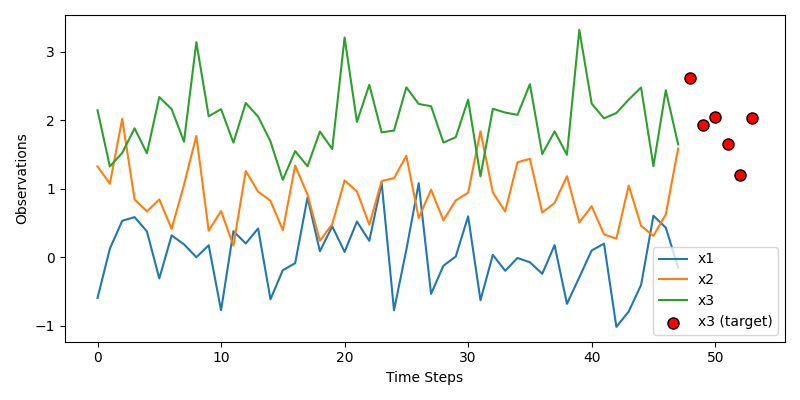
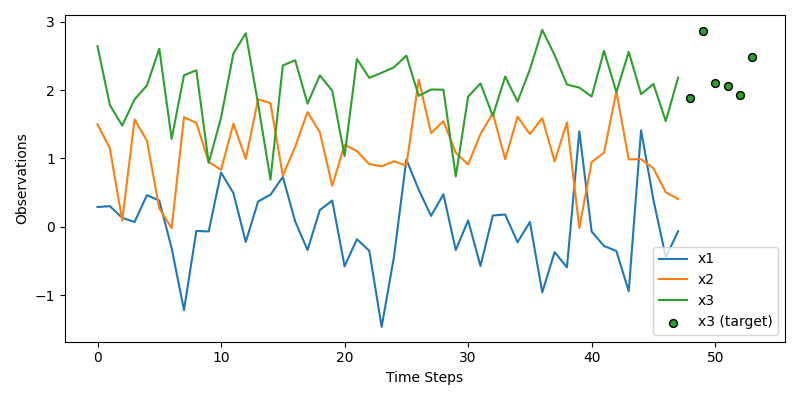
updates README

diff --git a/README.md b/README.md
@@ -10,10 +10,10 @@
 
 1.  [About The Project](#about-the-project)
 2.  [Usage](#usage)
-    1.  [Example Data](#org62ac303)
-    2.  [Single-Step Prediction](#org5c0e42d)
-    3.  [Multi-Step Prediction](#org31a5c64)
-    4.  [Add Meta data as features](#org1c91d16)
+    1.  [Example Data](#org172632d)
+    2.  [Single-Step Prediction](#org660c3b2)
+    3.  [Multi-Step Prediction](#org487b8c3)
+    4.  [Preprocessing: Add Metadata features](#orgae97c2b)
 3.  [Contributing](#contributing)
 4.  [License](#license)
 5.  [Contact](#contact)
@@ -32,7 +32,7 @@ This python packages should help you to create TensorFlow datasets for time-seri
 # Usage
 
 
-<a id="org62ac303"></a>
+<a id="org172632d"></a>
 
 ## Example Data
 
@@ -62,18 +62,18 @@ Suppose you have a dataset in the following form:
     test_df.head()
 
                                x1        x2        x3
-    1992-01-01 00:00:00  0.258083  0.902987  1.617639
-    1992-01-01 00:30:00  0.203509  1.414581  1.771407
-    1992-01-01 01:00:00  0.013242  1.774091  2.686694
-    1992-01-01 01:30:00  0.351366  1.142042  1.304276
-    1992-01-01 02:00:00  0.158146 -0.222801  2.538896
+    1992-01-01 00:00:00 -0.282495  0.824307  1.986228
+    1992-01-01 00:30:00  0.056311  1.288896  1.875381
+    1992-01-01 01:00:00 -0.272162  0.662390  1.956936
+    1992-01-01 01:30:00 -0.075224  0.765020  1.940887
+    1992-01-01 02:00:00  0.343781  0.652433  1.864976
 
 
-<a id="org5c0e42d"></a>
+<a id="org660c3b2"></a>
 
 ## Single-Step Prediction
 
-this module contains the factory class `WindowedTimeSeriesDatasetFactory` to create a TensorFlow dataset from pandas dataframes, or other data sources as we will see later.
+The factory class `WindowedTimeSeriesDatasetFactory` is used to create a TensorFlow dataset from pandas dataframes, or other data sources as we will see later.
 We will use it now to create a dataset with `48` historic time-steps as the input to predict a single time-step in the future.
 
     from tensorflow_time_series_dataset import WindowedTimeSeriesDatasetFactory as Factory
@@ -109,11 +109,11 @@ We can plot the result with the utility function `plot_path`:
 ![img](.images/example1.png)
 
 
-<a id="org31a5c64"></a>
+<a id="org487b8c3"></a>
 
 ## Multi-Step Prediction
 
-Lets now change the prediction size to a whole day consisting of `6` half-hour time-steps.
+Lets now increase the change the prediction size to `6` half-hour time-steps.
 
     factory_kwds.update(dict(
         prediction_size=6
@@ -141,11 +141,13 @@ Again, lets plot the results to see what changed:
 ![img](.images/example2.png)
 
 
-<a id="org1c91d16"></a>
+<a id="orgae97c2b"></a>
 
-## Add Meta data as features
+## Preprocessing: Add Metadata features
 
-this module contains the factory class `WindowedTimeSeriesDatasetFactory` to create a TensorFlow dataset from pandas dataframes, or other data sources as we will see later.
+Preprocessors can be used to transform the data before it is fed into the model.
+A Preprocessor can be any python callable.
+In this case we will be using the a class called `CyclicalFeatureEncoder` to encode our one-dimensional cyclical features like the *time* or *weekday* to two-dimensional coordinates using a sine and cosine transformation as suggested in [this blogpost](<https://www.kaggle.com/avanwyk/encoding-cyclical-features-for-deep-learning>).
 
     import itertools
     from tensorflow_time_series_dataset.preprocessors import CyclicalFeatureEncoder
